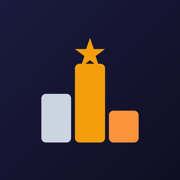
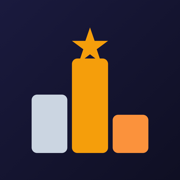
1.9.86 — nenhuma animação repinta mais; cartões isolados; ícone preenche o círculo
Continuação do plano de desempenho (o dono pediu pra atacar as dicas mesmo elas
estando DESLIGADAS: "quando voltarem causarao problemas").

ANIMAÇÕES — auditoria completa do CSS: nenhuma keyframe anima mais box-shadow,
filter ou background (verificado por varredura, não por amostra):
- hint-pulse (dicas), spGlowAmber/Indigo, enrollGlowPulse → viram ANEL em
  ::after animando transform+opacity (composto na GPU). Mesma leitura visual.
  O anel é pointer-events:none — não pode roubar o toque do elemento ensinado.
- invitePulse/inviteBtnPulse/enrollPulse → a sombra saiu da animação e ficou
  estática; o pulso (escala/borda) permanece. ⚠ enrollPulse roda em LOOP
  INFINITO no botão de inscrição com convite: repintava sem parar na tela mais
  aberta do app.
- as variantes por TEMA do pulso viravam três keyframes de box-shadow para o
  mesmo efeito; agora o tema muda só a cor da borda do anel. Keyframes dos temas
  MORTOS (sunset/ocean) removidas.

CARTÕES: `contain: paint` no `.card` — mexer num cartão deixa de obrigar o
navegador a reconsiderar os 4.234 elementos da tela (número medido no aparelho
do dono). ⛔ NÃO é content-visibility (proibido aqui): não esconde nada, não
muda layout, não mexe em evento.

ÍCONE: reenquadrado (icon-maskable.svg, escala 1,20) — o pódio ocupava 54% da
largura e o Android ainda recorta os cantos, daí o ícone "pequeno no círculo" do
print. ⚠ O teto é o CÍRCULO, não o quadrado: os cantos inferiores do pódio estão
[…]

Changed region(s): [[0.1667, 0.1667, 0.8333, 0.8611]]

diff --git a/index.html b/index.html
@@ -28,7 +28,7 @@
   <meta name="apple-mobile-web-app-status-bar-style" content="black-translucent">
   <meta name="apple-mobile-web-app-title" content="scoreplace">
   <link rel="manifest" href="manifest.json?v=0.17.73">
-  <link rel="icon" type="image/png" sizes="32x32" href="icons/icon-32.png?v=1.9.85"><link rel="icon" type="image/png" sizes="16x16" href="icons/icon-16.png?v=1.9.85"><link rel="icon" type="image/png" sizes="192x192" href="icons/icon-192.png?v=1.9.85"><link rel="apple-touch-icon" sizes="180x180" href="icons/icon-180.png?v=1.9.85"><link rel="mask-icon" href="icons/logo-podium.svg?v=1.9.85" color="#fbbf24">
+  <link rel="icon" type="image/png" sizes="32x32" href="icons/icon-32.png?v=1.9.86"><link rel="icon" type="image/png" sizes="16x16" href="icons/icon-16.png?v=1.9.86"><link rel="icon" type="image/png" sizes="192x192" href="icons/icon-192.png?v=1.9.86"><link rel="apple-touch-icon" sizes="180x180" href="icons/icon-180.png?v=1.9.86"><link rel="mask-icon" href="icons/logo-podium.svg?v=1.9.85" color="#fbbf24">
   
   <!-- Google Fonts para Design Moderno/Esportivo.
        ⚠ NÃO voltar a carregar isto como `rel="stylesheet"` puro: era uma folha
@@ -46,7 +46,7 @@
   <noscript><link href="https://fonts.googleapis.com/css2?family=Outfit:wght@300;400;500;600;700;800&family=Inter:wght@400;500;600&display=swap" rel="stylesheet"></noscript>
   
   <link rel="stylesheet" href="css/style.css?v=1.8.84">
-  <link rel="stylesheet" href="css/components.css?v=1.9.84">
+  <link rel="stylesheet" href="css/components.css?v=1.9.86">
   <link rel="stylesheet" href="css/layout.css?v=1.8.25-beta1">
   <link rel="stylesheet" href="css/bracket.css?v=1.7.88">
   <link rel="stylesheet" href="css/responsive.css?v=1.9.69">
@@ -490,7 +490,7 @@
 
       <div class="view-container" id="view-container" role="region" aria-label="Conteúdo principal" tabindex="-1">
         <!-- prerender:start -->
-<div class="landing-page"><style>.landing-page { max-width: 900px; margin: 0 auto; padding: 0 16px; }.landing-hero { text-align: center; padding: 48px 0 32px; }.landing-logo { margin-bottom: 8px; line-height: 0; }.landing-title { font-size: 2.2rem; font-weight: 800; color: var(--text-bright); margin: 0; }.landing-dot { color: var(--primary-color); }.landing-tagline { font-size: 1.1rem; color: var(--text-muted); margin: 12px 0 28px; max-width: 500px; margin-left: auto; margin-right: auto; }.landing-cta-btn { display: block; width: 95%; max-width: 760px; margin-left: auto; margin-right: auto; box-sizing: border-box; font-size: clamp(1.05rem, 1.4vw + 0.85rem, 1.55rem); font-weight: 800; padding: clamp(14px, 2vh + 6px, 26px) clamp(16px, 4vw, 48px); border-radius: 14px; cursor: pointer; background: linear-gradient(180deg, #059669 0%, #047857 55%, #036048 100%); letter-spacing: 0.3px; box-shadow: inset 0 3px 0 rgba(255,255,255,0.6), inset 0 13px 17px rgba(255,255,255,0.36), inset 0 -26px 30px rgba(0,0,0,0.38), inset 0 -5px 0 rgba(0,0,0,0.30), 0 12px 30px rgba(5,150,105,0.5), 0 6px 12px rgba(0,0,0,0.32); }.landing-cta-btn:active { transform: translateY(3px); box-shadow: inset 0 3px 0 rgba(255,255,255,0.45), inset 0 9px 13px rgba(255,255,255,0.26), inset 0 -16px 20px rgba(0,0,0,0.32), inset 0 -3px 0 rgba(0,0,0,0.26), 0 5px 14px rgba(5,150,105,0.4), 0 2px 5px rgba(0,0,0,0.24); }.landing-cta-btn:hover { background: #065f46; }.landing-cta-hero { display: flex; flex-direction: column; align-items: center; justify-content: center; gap: clamp(2px, 0.4vh, 8px); padding: clamp(26px, 5vh + 10px, 60px) clamp(26px, 6vw, 56px); line-height: 1.05; }.landing-cta-hero .landing-cta-l1 { font-size: clamp(2rem, 4.4vw + 1.2rem, 3.8rem); font-weight: 900; text-transform: uppercase; letter-spacing: 0.5px; max-width: 100%; }.landing-cta-hero .landing-cta-l2 { font-size: clamp(1.45rem, 3.1vw + 0.85rem, 2.9rem); font-weight: 800; letter-spacing: 0.2px; max-width: 100%; overflow-wrap: anywhere; word-break: break-word; }.landing-sports-row { display: flex; flex-wrap: wrap; justify-content: center; gap: 8px; margin-top: clamp(40px, 7vh, 72px); }.landing-sport-pill { background: var(--bg-card); border: 1px solid var(--border-color); border-radius: 20px; padding: 6px 14px; font-size: 0.82rem; color: var(--text-main); cursor: default; }.landing-features { padding: 24px 0; }.landing-grid { display: grid; grid-template-columns: repeat(auto-fit, minmax(250px, 1fr)); gap: 16px; }.landing-feat-card { background: var(--bg-card); border: 1px solid var(--border-color); border-radius: 14px; padding: 24px 20px; text-align: center; transition: transform 0.2s, box-shadow 0.2s; }.landing-feat-card:hover { transform: translateY(-2px); box-shadow: 0 6px 20px rgba(0,0,0,0.15); }.landing-feat-icon { font-size: 2rem; margin-bottom: 10px; }.landing-feat-card h3 { font-size: 1rem; font-weight: 700; color: var(--text-bright); margin: 0 0 8px; }.landing-feat-card p { font-size: 0.88rem; color: var(--text-muted); margin: 0; line-height: 1.5; }.landing-how { padding: 32px 0; text-align: center; }.landing-how h2 { font-size: 1.4rem; font-weight: 700; color: var(--text-bright); margin: 0 0 24px; }.landing-steps { display: flex; align-items: flex-start; justify-content: center; gap: 12px; flex-wrap: wrap; }.landing-step { flex: 1; min-width: 180px; max-width: 240px; text-align: center; }.landing-step-num { font-size: 2rem; margin-bottom: 8px; }.landing-step h3 { font-size: 0.95rem; font-weight: 700; color: var(--text-bright); margin: 0 0 6px; }.landing-step p { font-size: 0.85rem; color: var(--text-muted); margin: 0; line-height: 1.5; }.landing-step-arrow { font-size: 1.5rem; color: var(--text-muted); padding-top: 16px; }.landing-stats { display: flex; justify-content: center; gap: 40px; padding: 32px 0; flex-wrap: wrap; }.landing-stat { text-align: center; }.landing-stat-value { font-size: 2rem; font-weight: 800; color: var(--primary-color); }.landing-stat-label { font-size: 0.85rem; color: var(--text-muted); margin-top: 4px; }.landing-tutorials { padding: 40px 0; text-align: center; }.landing-tutorials h2 { font-size: 1.4rem; font-weight: 700; color: var(--text-bright); margin: 0 0 8px; }.landing-tutorials-sub { font-size: 0.9rem; color: var(--text-muted); margin: 0 0 24px; }.landing-vids-grid { display: grid; grid-template-columns: repeat(3, 1fr); gap: 14px; }.landing-vid-card { position: relative; border-radius: 12px; overflow: hidden; background: var(--bg-card); border: 1px solid var(--border-color); cursor: pointer; }.landing-vid-card:hover .landing-vid-play { opacity: 1; transform: translate(-50%,-50%) scale(1.1); }.landing-vid-wrap { position: relative; padding-top: 177.78%; /* 9:16 */ background: #000; }.landing-vid-wrap img { position: absolute; top: 0; left: 0; width: 100%; height: 100%; object-fit: cover; }.landing-vid-wrap iframe { position: absolute; top: 0; left: 0; width: 100%; height: 100%; border: 0; }.landing-vid-play { position: absolute; top: 50%; left: 50%; transform: translate(-50%,-50%); width: 52px; height: 52px; background: rgba(0,0,0,0.72); border-radius: 50%; display: flex; align-items: center; justify-content: center; font-size: 1.3rem; color: #fff; pointer-events: none; opacity: 0.85; transition: opacity 0.2s, transform 0.2s; padding-left: 4px; }.landing-cta-section { text-align: center; padding: 24px 0 40px; }.landing-footer { text-align: center; padding: 24px 0; border-top: 1px solid var(--border-color); font-size: 0.8rem; color: var(--text-muted); }.landing-footer a { color: var(--primary-color); text-decoration: none; }.landing-legal { display: flex; flex-direction: column; gap: 2px; margin-top: 14px; font-size: 0.75rem; font-style: normal; line-height: 1.5; opacity: 0.85; }@media (max-width: 767px) {.landing-title { font-size: 1.6rem; }.landing-tagline { font-size: 0.95rem; }.landing-step-arrow { display: none; }.landing-steps { flex-direction: column; align-items: center; }.landing-stats { gap: 24px; }.landing-vids-grid { grid-template-columns: repeat(2, 1fr); gap: 10px; }}</style><section class="landing-hero"><div class="landing-hero-content"><div class="landing-logo"><img src="icons/logo-podium.svg?v=0.15.95" alt="scoreplace" width="96" height="72" style="display:inline-block;filter:drop-shadow(0 4px 12px rgba(245,158,11,0.3));"></div><h1 class="landing-title">scoreplace<span class="landing-dot">.app</span></h1><div class="landing-version" style="font-size:0.78rem;color:var(--text-muted,#9ca3af);margin-top:-4px;margin-bottom:14px;letter-spacing:0.3px;">v1.9.85</div><p class="landing-tagline">Jogue em outro nível — torneios, partidas casuais, presença e locais esportivos.</p><button class="btn btn-cta btn-success landing-cta-btn landing-cta-hero" data-landing-cta="" onclick="if(window._spEnterClick)window._spEnterClick(this);else if(window._enterApp)window._enterApp(this);else if(window.openModal)window.openModal('modal-login');"><span class="landing-cta-l1">Entrar</span><span class="landing-cta-l2">no scoreplace.app</span></button><div class="landing-sports-row"><span class="landing-sport-pill"><svg viewBox="0 0 100 100" style="width:1em;height:1em;vertical-align:-0.15em;display:inline-block;flex-shrink:0" aria-label="Beach Tennis"><circle cx="50" cy="50" r="47" fill="#fb923c" stroke="#c2410c" stroke-width="3"></circle><path d="M18 20 C44 40 44 60 18 80" fill="none" stroke="#fff7ed" stroke-width="5" stroke-linecap="round"></path><path d="M82 20 C56 40 56 60 82 80" fill="none" stroke="#fff7ed" stroke-width="5" stroke-linecap="round"></path></svg> Beach Tennis</span><span class="landing-sport-pill">🟡 Pickleball</span><span class="landing-sport-pill">🎾 Tenis</span><span class="landing-sport-pill">🏓 Tenis de Mesa</span><span class="landing-sport-pill">🥎 Padel</span><span class="landing-sport-pill">🏐 Vôlei de Praia</span><span class="landing-sport-pill">⚽ Futevôlei</span></div></div></section><section class="landing-features"><h2 class="sr-only">Recursos da plataforma</h2><div class="landing-grid"><div class="landing-feat-card"><div class="landing-feat-icon">🎯</div><h3>Chaveamento Automático</h3><p>Sorteio inteligente com suporte a BYEs, cabeças de chave e categorias.</p></div><div class="landing-feat-card"><div class="landing-feat-icon">📋</div><h3>4 Formatos de Torneio</h3><p>Eliminatórias, Dupla Eliminatória, Fase de Grupos e Pontos Corridos.</p></div><div class="landing-feat-card"><div class="landing-feat-icon">🔗</div><h3>Inscrições Online</h3><p>Link de convite com inscrição automática após login.</p></div><div class="landing-feat-card"><div class="landing-feat-icon">⚡</div><h3>Partida Casual</h3><p>Placar ao vivo em tela cheia pra partidas avulsas. Convide amigos via QR Code e jogue.</p></div><div class="landing-feat-card"><div class="landing-feat-icon">📍</div><h3>Presença no Local</h3><p>Marque "Estou aqui agora" e amigos veem. Veja quem tá jogando nos seus clubes.</p></div><div class="landing-feat-card"><div class="landing-feat-icon">🏢</div><h3>Descobrir Locais</h3><p>Mapa com clubes e arenas abertos ao público. Filtros por modalidade, distância e preço.</p></div></div></section><section class="landing-tutorials"><h2>Veja em ação</h2><p class="landing-tutorials-sub">Tutoriais rápidos de cada funcionalidade</p><div class="landing-vids-grid"><div class="landing-vid-card" onclick="var w=this.querySelector('.landing-vid-wrap');w.innerHTML='&lt;iframe src=\'https://www.youtube.com/embed/ffMcLFj5yIs?autoplay=1&amp;rel=0&amp;modestbranding=1&amp;playsinline=1\' frameborder=\'0\' allow=\'accelerometer;autoplay;clipboard-write;encrypted-media;gyroscope;picture-in-picture\' allowfullscreen&gt;&lt;/iframe&gt;';this.querySelector('.landing-vid-play').style.display='none'"><div class="landing-vid-wrap"><img src="https://img.youtube.com/vi/ffMcLFj5yIs/maxresdefault.jpg" onerror="this.src='https://img.youtube.com/vi/ffMcLFj5yIs/hqdefault.jpg'" alt="Tutorial scoreplace.app" loading="lazy"></div><div class="landing-vid-play" aria-label="Reproduzir vídeo">▶</div></div><div class="landing-vid-card" onclick="var w=this.querySelector('.landing-vid-wrap');w.innerHTML='&lt;iframe src=\'https://www.youtube.com/embed/K5KncI40tIE?autoplay=1&amp;rel=0&amp;modestbranding=1&amp;playsinline=1\' frameborder=\'0\' allow=\'accelerometer;autoplay;clipboard-write;encrypted-media;gyroscope;picture-in-picture\' allowfullscreen&gt;&lt;/iframe&gt;';this.querySelector('.landing-vid-play').style.display='none'"><div class="landing-vid-wrap"><img src="https://img.youtube.com/vi/K5KncI40tIE/maxresdefault.jpg" onerror="this.src='https://img.youtube.com/vi/K5KncI40tIE/hqdefault.jpg'" alt="Tutorial scoreplace.app" loading="lazy"></div><div class="landing-vid-play" aria-label="Reproduzir vídeo">▶</div></div><div class="landing-vid-card" onclick="var w=this.querySelector('.landing-vid-wrap');w.innerHTML='&lt;iframe src=\'https://www.youtube.com/embed/q_ZEMJ_bs-Y?autoplay=1&amp;rel=0&amp;modestbranding=1&amp;playsinline=1\' frameborder=\'0\' allow=\'accelerometer;autoplay;clipboard-write;encrypted-media;gyroscope;picture-in-picture\' allowfullscreen&gt;&lt;/iframe&gt;';this.querySelector('.landing-vid-play').style.display='none'"><div class="landing-vid-wrap"><img src="https://img.youtube.com/vi/q_ZEMJ_bs-Y/maxresdefault.jpg" onerror="this.src='https://img.youtube.com/vi/q_ZEMJ_bs-Y/hqdefault.jpg'" alt="Tutorial scoreplace.app" loading="lazy"></div><div class="landing-vid-play" aria-label="Reproduzir vídeo">▶</div></div><div class="landing-vid-card" onclick="var w=this.querySelector('.landing-vid-wrap');w.innerHTML='&lt;iframe src=\'https://www.youtube.com/embed/wKy5x0D9E-E?autoplay=1&amp;rel=0&amp;modestbranding=1&amp;playsinline=1\' frameborder=\'0\' allow=\'accelerometer;autoplay;clipboard-write;encrypted-media;gyroscope;picture-in-picture\' allowfullscreen&gt;&lt;/iframe&gt;';this.querySelector('.landing-vid-play').style.display='none'"><div class="landing-vid-wrap"><img src="https://img.youtube.com/vi/wKy5x0D9E-E/maxresdefault.jpg" onerror="this.src='https://img.youtube.com/vi/wKy5x0D9E-E/hqdefault.jpg'" alt="Tutorial scoreplace.app" loading="lazy"></div><div class="landing-vid-play" aria-label="Reproduzir vídeo">▶</div></div><div class="landing-vid-card" onclick="var w=this.querySelector('.landing-vid-wrap');w.innerHTML='&lt;iframe src=\'https://www.youtube.com/embed/XpI7fcdFDn0?autoplay=1&amp;rel=0&amp;modestbranding=1&amp;playsinline=1\' frameborder=\'0\' allow=\'accelerometer;autoplay;clipboard-write;encrypted-media;gyroscope;picture-in-picture\' allowfullscreen&gt;&lt;/iframe&gt;';this.querySelector('.landing-vid-play').style.display='none'"><div class="landing-vid-wrap"><img src="https://img.youtube.com/vi/XpI7fcdFDn0/maxresdefault.jpg" onerror="this.src='https://img.youtube.com/vi/XpI7fcdFDn0/hqdefault.jpg'" alt="Tutorial scoreplace.app" loading="lazy"></div><div class="landing-vid-play" aria-label="Reproduzir vídeo">▶</div></div><div class="landing-vid-card" onclick="var w=this.querySelector('.landing-vid-wrap');w.innerHTML='&lt;iframe src=\'https://www.youtube.com/embed/jiKAdBkMso8?autoplay=1&amp;rel=0&amp;modestbranding=1&amp;playsinline=1\' frameborder=\'0\' allow=\'accelerometer;autoplay;clipboard-write;encrypted-media;gyroscope;picture-in-picture\' allowfullscreen&gt;&lt;/iframe&gt;';this.querySelector('.landing-vid-play').style.display='none'"><div class="landing-vid-wrap"><img src="https://img.youtube.com/vi/jiKAdBkMso8/maxresdefault.jpg" onerror="this.src='https://img.youtube.com/vi/jiKAdBkMso8/hqdefault.jpg'" alt="Tutorial scoreplace.app" loading="lazy"></div><div class="landing-vid-play" aria-label="Reproduzir vídeo">▶</div></div></div></section><section class="landing-how"><h2>Como funciona</h2><div class="landing-steps"><div class="landing-step"><div class="landing-step-num">🏗</div><h3>Crie um torneio</h3><p>Escolha o esporte, formato e configure as regras em segundos.</p></div><div class="landing-step-arrow">→</div><div class="landing-step"><div class="landing-step-num">📨</div><h3>Convide participantes</h3><p>Compartilhe o link ou QR Code. Inscrição com um clique.</p></div><div class="landing-step-arrow">→</div><div class="landing-step"><div class="landing-step-num">🏅</div><h3>Gerencie resultados</h3><p>Chaveamento automático, placar ao vivo e classificação em tempo real.</p></div></div></section><section class="landing-cta-section"><button class="btn btn-cta btn-success landing-cta-btn" data-landing-cta="" onclick="if(window._spEnterClick)window._spEnterClick(this);else if(window._enterApp)window._enterApp(this);else if(window.openModal)window.openModal('modal-login');">Comece agora — é grátis!</button></section><footer class="landing-footer"><p>scoreplace.app v1.9.85</p><p><a href="mailto:contato@barthlabs.com">contato@barthlabs.com</a></p><p style="margin-top:12px;font-size:0.75rem;"><a href="#privacy">Política de Privacidade</a> · <a href="#terms">Termos de Uso</a></p><address class="landing-legal"><span>Terra Barth Serviços Administrativos Ltda</span><span>CNPJ 51.590.996/0001-73</span><span>Rua Ministro Alfredo Nasser, 68 — São Paulo, SP, 05516-090, Brasil</span><a href="tel:+5511987726873">+55 11 98772-6873</a></address></footer></div>
+<div class="landing-page"><style>.landing-page { max-width: 900px; margin: 0 auto; padding: 0 16px; }.landing-hero { text-align: center; padding: 48px 0 32px; }.landing-logo { margin-bottom: 8px; line-height: 0; }.landing-title { font-size: 2.2rem; font-weight: 800; color: var(--text-bright); margin: 0; }.landing-dot { color: var(--primary-color); }.landing-tagline { font-size: 1.1rem; color: var(--text-muted); margin: 12px 0 28px; max-width: 500px; margin-left: auto; margin-right: auto; }.landing-cta-btn { display: block; width: 95%; max-width: 760px; margin-left: auto; margin-right: auto; box-sizing: border-box; font-size: clamp(1.05rem, 1.4vw + 0.85rem, 1.55rem); font-weight: 800; padding: clamp(14px, 2vh + 6px, 26px) clamp(16px, 4vw, 48px); border-radius: 14px; cursor: pointer; background: linear-gradient(180deg, #059669 0%, #047857 55%, #036048 100%); letter-spacing: 0.3px; box-shadow: inset 0 3px 0 rgba(255,255,255,0.6), inset 0 13px 17px rgba(255,255,255,0.36), inset 0 -26px 30px rgba(0,0,0,0.38), inset 0 -5px 0 rgba(0,0,0,0.30), 0 12px 30px rgba(5,150,105,0.5), 0 6px 12px rgba(0,0,0,0.32); }.landing-cta-btn:active { transform: translateY(3px); box-shadow: inset 0 3px 0 rgba(255,255,255,0.45), inset 0 9px 13px rgba(255,255,255,0.26), inset 0 -16px 20px rgba(0,0,0,0.32), inset 0 -3px 0 rgba(0,0,0,0.26), 0 5px 14px rgba(5,150,105,0.4), 0 2px 5px rgba(0,0,0,0.24); }.landing-cta-btn:hover { background: #065f46; }.landing-cta-hero { display: flex; flex-direction: column; align-items: center; justify-content: center; gap: clamp(2px, 0.4vh, 8px); padding: clamp(26px, 5vh + 10px, 60px) clamp(26px, 6vw, 56px); line-height: 1.05; }.landing-cta-hero .landing-cta-l1 { font-size: clamp(2rem, 4.4vw + 1.2rem, 3.8rem); font-weight: 900; text-transform: uppercase; letter-spacing: 0.5px; max-width: 100%; }.landing-cta-hero .landing-cta-l2 { font-size: clamp(1.45rem, 3.1vw + 0.85rem, 2.9rem); font-weight: 800; letter-spacing: 0.2px; max-width: 100%; overflow-wrap: anywhere; word-break: break-word; }.landing-sports-row { display: flex; flex-wrap: wrap; justify-content: center; gap: 8px; margin-top: clamp(40px, 7vh, 72px); }.landing-sport-pill { background: var(--bg-card); border: 1px solid var(--border-color); border-radius: 20px; padding: 6px 14px; font-size: 0.82rem; color: var(--text-main); cursor: default; }.landing-features { padding: 24px 0; }.landing-grid { display: grid; grid-template-columns: repeat(auto-fit, minmax(250px, 1fr)); gap: 16px; }.landing-feat-card { background: var(--bg-card); border: 1px solid var(--border-color); border-radius: 14px; padding: 24px 20px; text-align: center; transition: transform 0.2s, box-shadow 0.2s; }.landing-feat-card:hover { transform: translateY(-2px); box-shadow: 0 6px 20px rgba(0,0,0,0.15); }.landing-feat-icon { font-size: 2rem; margin-bottom: 10px; }.landing-feat-card h3 { font-size: 1rem; font-weight: 700; color: var(--text-bright); margin: 0 0 8px; }.landing-feat-card p { font-size: 0.88rem; color: var(--text-muted); margin: 0; line-height: 1.5; }.landing-how { padding: 32px 0; text-align: center; }.landing-how h2 { font-size: 1.4rem; font-weight: 700; color: var(--text-bright); margin: 0 0 24px; }.landing-steps { display: flex; align-items: flex-start; justify-content: center; gap: 12px; flex-wrap: wrap; }.landing-step { flex: 1; min-width: 180px; max-width: 240px; text-align: center; }.landing-step-num { font-size: 2rem; margin-bottom: 8px; }.landing-step h3 { font-size: 0.95rem; font-weight: 700; color: var(--text-bright); margin: 0 0 6px; }.landing-step p { font-size: 0.85rem; color: var(--text-muted); margin: 0; line-height: 1.5; }.landing-step-arrow { font-size: 1.5rem; color: var(--text-muted); padding-top: 16px; }.landing-stats { display: flex; justify-content: center; gap: 40px; padding: 32px 0; flex-wrap: wrap; }.landing-stat { text-align: center; }.landing-stat-value { font-size: 2rem; font-weight: 800; color: var(--primary-color); }.landing-stat-label { font-size: 0.85rem; color: var(--text-muted); margin-top: 4px; }.landing-tutorials { padding: 40px 0; text-align: center; }.landing-tutorials h2 { font-size: 1.4rem; font-weight: 700; color: var(--text-bright); margin: 0 0 8px; }.landing-tutorials-sub { font-size: 0.9rem; color: var(--text-muted); margin: 0 0 24px; }.landing-vids-grid { display: grid; grid-template-columns: repeat(3, 1fr); gap: 14px; }.landing-vid-card { position: relative; border-radius: 12px; overflow: hidden; background: var(--bg-card); border: 1px solid var(--border-color); cursor: pointer; }.landing-vid-card:hover .landing-vid-play { opacity: 1; transform: translate(-50%,-50%) scale(1.1); }.landing-vid-wrap { position: relative; padding-top: 177.78%; /* 9:16 */ background: #000; }.landing-vid-wrap img { position: absolute; top: 0; left: 0; width: 100%; height: 100%; object-fit: cover; }.landing-vid-wrap iframe { position: absolute; top: 0; left: 0; width: 100%; height: 100%; border: 0; }.landing-vid-play { position: absolute; top: 50%; left: 50%; transform: translate(-50%,-50%); width: 52px; height: 52px; background: rgba(0,0,0,0.72); border-radius: 50%; display: flex; align-items: center; justify-content: center; font-size: 1.3rem; color: #fff; pointer-events: none; opacity: 0.85; transition: opacity 0.2s, transform 0.2s; padding-left: 4px; }.landing-cta-section { text-align: center; padding: 24px 0 40px; }.landing-footer { text-align: center; padding: 24px 0; border-top: 1px solid var(--border-color); font-size: 0.8rem; color: var(--text-muted); }.landing-footer a { color: var(--primary-color); text-decoration: none; }.landing-legal { display: flex; flex-direction: column; gap: 2px; margin-top: 14px; font-size: 0.75rem; font-style: normal; line-height: 1.5; opacity: 0.85; }@media (max-width: 767px) {.landing-title { font-size: 1.6rem; }.landing-tagline { font-size: 0.95rem; }.landing-step-arrow { display: none; }.landing-steps { flex-direction: column; align-items: center; }.landing-stats { gap: 24px; }.landing-vids-grid { grid-template-columns: repeat(2, 1fr); gap: 10px; }}</style><section class="landing-hero"><div class="landing-hero-content"><div class="landing-logo"><img src="icons/logo-podium.svg?v=0.15.95" alt="scoreplace" width="96" height="72" style="display:inline-block;filter:drop-shadow(0 4px 12px rgba(245,158,11,0.3));"></div><h1 class="landing-title">scoreplace<span class="landing-dot">.app</span></h1><div class="landing-version" style="font-size:0.78rem;color:var(--text-muted,#9ca3af);margin-top:-4px;margin-bottom:14px;letter-spacing:0.3px;">v1.9.86</div><p class="landing-tagline">Jogue em outro nível — torneios, partidas casuais, presença e locais esportivos.</p><button class="btn btn-cta btn-success landing-cta-btn landing-cta-hero" data-landing-cta="" onclick="if(window._spEnterClick)window._spEnterClick(this);else if(window._enterApp)window._enterApp(this);else if(window.openModal)window.openModal('modal-login');"><span class="landing-cta-l1">Entrar</span><span class="landing-cta-l2">no scoreplace.app</span></button><div class="landing-sports-row"><span class="landing-sport-pill"><svg viewBox="0 0 100 100" style="width:1em;height:1em;vertical-align:-0.15em;display:inline-block;flex-shrink:0" aria-label="Beach Tennis"><circle cx="50" cy="50" r="47" fill="#fb923c" stroke="#c2410c" stroke-width="3"></circle><path d="M18 20 C44 40 44 60 18 80" fill="none" stroke="#fff7ed" stroke-width="5" stroke-linecap="round"></path><path d="M82 20 C56 40 56 60 82 80" fill="none" stroke="#fff7ed" stroke-width="5" stroke-linecap="round"></path></svg> Beach Tennis</span><span class="landing-sport-pill">🟡 Pickleball</span><span class="landing-sport-pill">🎾 Tenis</span><span class="landing-sport-pill">🏓 Tenis de Mesa</span><span class="landing-sport-pill">🥎 Padel</span><span class="landing-sport-pill">🏐 Vôlei de Praia</span><span class="landing-sport-pill">⚽ Futevôlei</span></div></div></section><section class="landing-features"><h2 class="sr-only">Recursos da plataforma</h2><div class="landing-grid"><div class="landing-feat-card"><div class="landing-feat-icon">🎯</div><h3>Chaveamento Automático</h3><p>Sorteio inteligente com suporte a BYEs, cabeças de chave e categorias.</p></div><div class="landing-feat-card"><div class="landing-feat-icon">📋</div><h3>4 Formatos de Torneio</h3><p>Eliminatórias, Dupla Eliminatória, Fase de Grupos e Pontos Corridos.</p></div><div class="landing-feat-card"><div class="landing-feat-icon">🔗</div><h3>Inscrições Online</h3><p>Link de convite com inscrição automática após login.</p></div><div class="landing-feat-card"><div class="landing-feat-icon">⚡</div><h3>Partida Casual</h3><p>Placar ao vivo em tela cheia pra partidas avulsas. Convide amigos via QR Code e jogue.</p></div><div class="landing-feat-card"><div class="landing-feat-icon">📍</div><h3>Presença no Local</h3><p>Marque "Estou aqui agora" e amigos veem. Veja quem tá jogando nos seus clubes.</p></div><div class="landing-feat-card"><div class="landing-feat-icon">🏢</div><h3>Descobrir Locais</h3><p>Mapa com clubes e arenas abertos ao público. Filtros por modalidade, distância e preço.</p></div></div></section><section class="landing-tutorials"><h2>Veja em ação</h2><p class="landing-tutorials-sub">Tutoriais rápidos de cada funcionalidade</p><div class="landing-vids-grid"><div class="landing-vid-card" onclick="var w=this.querySelector('.landing-vid-wrap');w.innerHTML='&lt;iframe src=\'https://www.youtube.com/embed/ffMcLFj5yIs?autoplay=1&amp;rel=0&amp;modestbranding=1&amp;playsinline=1\' frameborder=\'0\' allow=\'accelerometer;autoplay;clipboard-write;encrypted-media;gyroscope;picture-in-picture\' allowfullscreen&gt;&lt;/iframe&gt;';this.querySelector('.landing-vid-play').style.display='none'"><div class="landing-vid-wrap"><img src="https://img.youtube.com/vi/ffMcLFj5yIs/maxresdefault.jpg" onerror="this.src='https://img.youtube.com/vi/ffMcLFj5yIs/hqdefault.jpg'" alt="Tutorial scoreplace.app" loading="lazy"></div><div class="landing-vid-play" aria-label="Reproduzir vídeo">▶</div></div><div class="landing-vid-card" onclick="var w=this.querySelector('.landing-vid-wrap');w.innerHTML='&lt;iframe src=\'https://www.youtube.com/embed/K5KncI40tIE?autoplay=1&amp;rel=0&amp;modestbranding=1&amp;playsinline=1\' frameborder=\'0\' allow=\'accelerometer;autoplay;clipboard-write;encrypted-media;gyroscope;picture-in-picture\' allowfullscreen&gt;&lt;/iframe&gt;';this.querySelector('.landing-vid-play').style.display='none'"><div class="landing-vid-wrap"><img src="https://img.youtube.com/vi/K5KncI40tIE/maxresdefault.jpg" onerror="this.src='https://img.youtube.com/vi/K5KncI40tIE/hqdefault.jpg'" alt="Tutorial scoreplace.app" loading="lazy"></div><div class="landing-vid-play" aria-label="Reproduzir vídeo">▶</div></div><div class="landing-vid-card" onclick="var w=this.querySelector('.landing-vid-wrap');w.innerHTML='&lt;iframe src=\'https://www.youtube.com/embed/q_ZEMJ_bs-Y?autoplay=1&amp;rel=0&amp;modestbranding=1&amp;playsinline=1\' frameborder=\'0\' allow=\'accelerometer;autoplay;clipboard-write;encrypted-media;gyroscope;picture-in-picture\' allowfullscreen&gt;&lt;/iframe&gt;';this.querySelector('.landing-vid-play').style.display='none'"><div class="landing-vid-wrap"><img src="https://img.youtube.com/vi/q_ZEMJ_bs-Y/maxresdefault.jpg" onerror="this.src='https://img.youtube.com/vi/q_ZEMJ_bs-Y/hqdefault.jpg'" alt="Tutorial scoreplace.app" loading="lazy"></div><div class="landing-vid-play" aria-label="Reproduzir vídeo">▶</div></div><div class="landing-vid-card" onclick="var w=this.querySelector('.landing-vid-wrap');w.innerHTML='&lt;iframe src=\'https://www.youtube.com/embed/wKy5x0D9E-E?autoplay=1&amp;rel=0&amp;modestbranding=1&amp;playsinline=1\' frameborder=\'0\' allow=\'accelerometer;autoplay;clipboard-write;encrypted-media;gyroscope;picture-in-picture\' allowfullscreen&gt;&lt;/iframe&gt;';this.querySelector('.landing-vid-play').style.display='none'"><div class="landing-vid-wrap"><img src="https://img.youtube.com/vi/wKy5x0D9E-E/maxresdefault.jpg" onerror="this.src='https://img.youtube.com/vi/wKy5x0D9E-E/hqdefault.jpg'" alt="Tutorial scoreplace.app" loading="lazy"></div><div class="landing-vid-play" aria-label="Reproduzir vídeo">▶</div></div><div class="landing-vid-card" onclick="var w=this.querySelector('.landing-vid-wrap');w.innerHTML='&lt;iframe src=\'https://www.youtube.com/embed/XpI7fcdFDn0?autoplay=1&amp;rel=0&amp;modestbranding=1&amp;playsinline=1\' frameborder=\'0\' allow=\'accelerometer;autoplay;clipboard-write;encrypted-media;gyroscope;picture-in-picture\' allowfullscreen&gt;&lt;/iframe&gt;';this.querySelector('.landing-vid-play').style.display='none'"><div class="landing-vid-wrap"><img src="https://img.youtube.com/vi/XpI7fcdFDn0/maxresdefault.jpg" onerror="this.src='https://img.youtube.com/vi/XpI7fcdFDn0/hqdefault.jpg'" alt="Tutorial scoreplace.app" loading="lazy"></div><div class="landing-vid-play" aria-label="Reproduzir vídeo">▶</div></div><div class="landing-vid-card" onclick="var w=this.querySelector('.landing-vid-wrap');w.innerHTML='&lt;iframe src=\'https://www.youtube.com/embed/jiKAdBkMso8?autoplay=1&amp;rel=0&amp;modestbranding=1&amp;playsinline=1\' frameborder=\'0\' allow=\'accelerometer;autoplay;clipboard-write;encrypted-media;gyroscope;picture-in-picture\' allowfullscreen&gt;&lt;/iframe&gt;';this.querySelector('.landing-vid-play').style.display='none'"><div class="landing-vid-wrap"><img src="https://img.youtube.com/vi/jiKAdBkMso8/maxresdefault.jpg" onerror="this.src='https://img.youtube.com/vi/jiKAdBkMso8/hqdefault.jpg'" alt="Tutorial scoreplace.app" loading="lazy"></div><div class="landing-vid-play" aria-label="Reproduzir vídeo">▶</div></div></div></section><section class="landing-how"><h2>Como funciona</h2><div class="landing-steps"><div class="landing-step"><div class="landing-step-num">🏗</div><h3>Crie um torneio</h3><p>Escolha o esporte, formato e configure as regras em segundos.</p></div><div class="landing-step-arrow">→</div><div class="landing-step"><div class="landing-step-num">📨</div><h3>Convide participantes</h3><p>Compartilhe o link ou QR Code. Inscrição com um clique.</p></div><div class="landing-step-arrow">→</div><div class="landing-step"><div class="landing-step-num">🏅</div><h3>Gerencie resultados</h3><p>Chaveamento automático, placar ao vivo e classificação em tempo real.</p></div></div></section><section class="landing-cta-section"><button class="btn btn-cta btn-success landing-cta-btn" data-landing-cta="" onclick="if(window._spEnterClick)window._spEnterClick(this);else if(window._enterApp)window._enterApp(this);else if(window.openModal)window.openModal('modal-login');">Comece agora — é grátis!</button></section><footer class="landing-footer"><p>scoreplace.app v1.9.86</p><p><a href="mailto:contato@barthlabs.com">contato@barthlabs.com</a></p><p style="margin-top:12px;font-size:0.75rem;"><a href="#privacy">Política de Privacidade</a> · <a href="#terms">Termos de Uso</a></p><address class="landing-legal"><span>Terra Barth Serviços Administrativos Ltda</span><span>CNPJ 51.590.996/0001-73</span><span>Rua Ministro Alfredo Nasser, 68 — São Paulo, SP, 05516-090, Brasil</span><a href="tel:+5511987726873">+55 11 98772-6873</a></address></footer></div>
         <!-- prerender:end -->
       </div>
     </main>
@@ -541,7 +541,7 @@
   <!-- proporção de gênero do sorteio equilibrado (50/50 · 25/75 · 75/25) — PURO e
        vendorável: o mesmo módulo decide o sorteio inicial e a formação por lista de espera -->
   <script src="js/views/gender-ratio-core.js?v=1.8.45" defer></script>
-  <script src="js/store.js?v=1.9.85-x2.07" defer></script>
+  <script src="js/store.js?v=1.9.86-x2.07" defer></script>
   <!-- Fonte única das regras das modalidades (antes de create-tournament.js e bracket-ui.js, que derivam dela) -->
   <script src="js/views/sport-rules.js?v=4.0.50-beta" defer></script>
   <script src="js/firebase-db.js?v=1.9.73" defer></script>

diff --git a/css/components.css b/css/components.css
@@ -51,28 +51,48 @@ input[type="date"] { min-width: 8.5rem !important; }   /* "dd/mm/aaaa" + ícone 
 
 /* v2.1.64: brilho pulsante nos boxes do Modo de Inscrição quando o sorteio é
    barrado por falta de times montados — chama a atenção pra a regra. */
-@keyframes enrollGlowPulse {
-  0%, 100% { box-shadow: 0 0 0 0 rgba(167,139,250,0); border-color: rgba(167,139,250,0.45); }
-  50% { box-shadow: 0 0 16px 3px rgba(167,139,250,0.65); border-color: #a78bfa; }
+/* 1.9.86: anel composto no lugar da sombra animada (mesma troca do hint-glow).
+   São só 4 ciclos, mas eles caem justo quando a pessoa está lendo a regra. */
+@keyframes enrollGlowRing {
+  0%, 100% { transform: scale(1);    opacity: 0; }
+  50%      { transform: scale(1.04); opacity: 1; }
 }
 .enroll-glow {
-  animation: enrollGlowPulse 1.2s ease-in-out 4;
   border-color: #a78bfa !important;
+  position: relative;
+}
+.enroll-glow::after {
+  content: '';
+  position: absolute;
+  inset: -2px;
+  border-radius: inherit;
+  border: 2px solid #a78bfa;
+  pointer-events: none;
+  animation: enrollGlowRing 1.2s ease-in-out 4;
+  will-change: transform, opacity;
 }
 
 /* Brilho de atenção em botões de ação do organizador (loop contínuo). */
-@keyframes spGlowAmber {
-  0%, 100% { box-shadow: 0 0 0 0 rgba(251,191,36,0); }
-  50% { box-shadow: 0 0 16px 3px rgba(251,191,36,0.7); }
+/* 1.9.86 — idem `hint-glow`: sombra animada (repaint por quadro) vira anel
+   composto (transform+opacity). O brilho continua; o custo, não. */
+@keyframes spGlowRing {
+  0%, 100% { transform: scale(1);    opacity: 0; }
+  50%      { transform: scale(1.05); opacity: 1; }
 }
-@keyframes spGlowIndigo {
-  0%, 100% { box-shadow: 0 0 0 0 rgba(129,140,248,0); }
-  50% { box-shadow: 0 0 16px 3px rgba(129,140,248,0.7); }
+.sp-glow-amber, .sp-glow-indigo { position: relative; }
+.sp-glow-amber::after, .sp-glow-indigo::after {
+  content: '';
+  position: absolute;
+  inset: -2px;
+  border-radius: inherit;
+  pointer-events: none;
+  animation: spGlowRing 1.6s ease-in-out infinite;
+  will-change: transform, opacity;
 }
-.sp-glow-amber { animation: spGlowAmber 1.6s ease-in-out infinite; }
-.sp-glow-indigo { animation: spGlowIndigo 1.6s ease-in-out infinite; }
+.sp-glow-amber::after  { border: 2px solid rgba(251,191,36,0.75); }
+.sp-glow-indigo::after { border: 2px solid rgba(129,140,248,0.75); }
 @media (prefers-reduced-motion: reduce) {
-  .sp-glow-amber, .sp-glow-indigo { animation: none; }
+  .sp-glow-amber::after, .sp-glow-indigo::after { animation: none; }
 }
 
 /* ==== FIXED BACK HEADER ==== */
@@ -1096,6 +1116,19 @@ body.sp-drag-compact .sp-dnd-host .participant-card::before {
   border-radius: var(--radius-lg);
   padding: 1.5rem;
   transition: transform var(--transition-normal), box-shadow var(--transition-normal);
+  /* ── 1.9.86 · ISOLA A PINTURA DO CARTÃO ─────────────────────────────────
+     MEDIDO no aparelho do dono: a tela tem 4.234 elementos. Sem isto, mexer em
+     UM cartão obriga o navegador a reconsiderar a página inteira — é o
+     multiplicador que tornava caro cada enfeite que consertamos nesta noite.
+     `contain: paint` promete só uma coisa: nada do cartão vaza para fora dele.
+     ⛔ NÃO CONFUNDIR com `content-visibility`, que está PROIBIDO aqui
+     ([[feedback_otimizacao_que_muda_o_que_a_tela_promete]]): aquele PULA o
+     desenho e entrega retângulo vazio ao rolar, além de comer o primeiro toque.
+     Este NÃO esconde nada, não altera layout e não mexe em evento — só delimita
+     o escopo do repaint. Zero mudança visual.
+     ⚠ Só `paint`: `contain: layout/size` mudaria a altura de cartão sem altura
+     fixa e quebraria as travas de scroll que já foram pagas. */
+  contain: paint;
 }
 
 .card:hover {
@@ -1724,17 +1757,38 @@ input[type="number"] {
 
 /* ==== HINT SYSTEM (Dicas Visuais) v2 ==== */
 
-/* --- Glow Effect on Target Element --- */
-@keyframes hint-pulse {
-  0% { box-shadow: 0 0 4px 2px rgba(251,191,36,0.3); }
-  50% { box-shadow: 0 0 16px 6px rgba(251,191,36,0.55); }
-  100% { box-shadow: 0 0 4px 2px rgba(251,191,36,0.3); }
+/* --- Realce do alvo da dica --- */
+/* ⛔ 1.9.86 — O PULSO NÃO ANIMA MAIS `box-shadow`. Ele estava DESLIGADO no app
+   (as dicas foram suspensas), mas é da MESMA classe que derrubou a rolagem no
+   iPhone do dono nesta noite: sombra animada REPINTA a região a cada quadro, e o
+   navegador não consegue jogar isso na GPU (só `transform` e `opacity` são
+   compostos). Estava esperando pra reaparecer junto com as dicas.
+   O mesmo pulso agora é um ANEL (pseudo-elemento) que cresce e some — mesma
+   leitura visual, custo de composição. `will-change` promove a camada.
+   ⚠ O anel é `pointer-events:none`: ele NÃO pode roubar o toque do elemento que
+   está sendo ensinado (seria a repetição do bug do card que não respondia). */
+@keyframes hint-pulse-ring {
+  0%   { transform: scale(1);    opacity: 0.55; }
+  50%  { transform: scale(1.06); opacity: 0.25; }
+  100% { transform: scale(1);    opacity: 0.55; }
 }
 .hint-glow {
-  animation: hint-pulse 1.6s ease-in-out infinite !important;
   border-radius: 10px;
   position: relative;
   z-index: 99999;
+}
+.hint-glow::after {
+  content: '';
+  position: absolute;
+  inset: -3px;
+  border-radius: inherit;
+  border: 2px solid rgba(251,191,36,0.9);
+  pointer-events: none;
+  animation: hint-pulse-ring 1.6s ease-in-out infinite;
+  will-change: transform, opacity;
+}
+@media (prefers-reduced-motion: reduce) {
+  .hint-glow::after { animation: none; }
 }
 
 /* --- Tooltip Balloon (uses real div arrow, not pseudo-element) --- */
@@ -1825,12 +1879,10 @@ input[type="number"] {
 .hint-balloon-disable:hover { color: #94a3b8; }
 
 /* --- Theme-Aware Glow & Balloon Colors --- */
-[data-theme="light"] .hint-glow { animation-name: hint-pulse-light !important; }
-@keyframes hint-pulse-light {
-  0% { box-shadow: 0 0 4px 2px rgba(37,99,235,0.25); }
-  50% { box-shadow: 0 0 16px 6px rgba(37,99,235,0.45); }
-  100% { box-shadow: 0 0 4px 2px rgba(37,99,235,0.25); }
-}
+/* 1.9.86 — com o pulso virando ANEL (transform+opacity), o tema muda só a COR
+   da borda; a animação é a mesma nos dois. Antes cada tema tinha a sua keyframe
+   de `box-shadow` — três animações de repintura para o mesmo efeito. */
+[data-theme="light"] .hint-glow::after { border-color: rgba(37,99,235,0.9); }
 [data-theme="light"] .hint-balloon-body {
   background: linear-gradient(135deg, #f8faff 0%, #eef2fb 100%);
   border-color: rgba(37,99,235,0.35);
@@ -1847,12 +1899,6 @@ input[type="number"] {
 [data-theme="light"] .hint-balloon-disable { color: #6c6c70; }
 [data-theme="light"] .hint-balloon-disable:hover { color: #3a3a3c; }
 
-[data-theme="sunset"] .hint-glow { animation-name: hint-pulse-sunset !important; }
-@keyframes hint-pulse-sunset {
-  0% { box-shadow: 0 0 4px 2px rgba(245,158,11,0.3); }
-  50% { box-shadow: 0 0 16px 6px rgba(245,158,11,0.5); }
-  100% { box-shadow: 0 0 4px 2px rgba(245,158,11,0.3); }
-}
 [data-theme="sunset"] .hint-balloon-body {
   background: linear-gradient(135deg, #fffdf8 0%, #f5ede0 100%);
   border-color: rgba(180,83,9,0.35);
@@ -1869,12 +1915,6 @@ input[type="number"] {
 [data-theme="sunset"] .hint-balloon-disable { color: #78716c; }
 [data-theme="sunset"] .hint-balloon-disable:hover { color: #44403c; }
 
-[data-theme="ocean"] .hint-glow { animation-name: hint-pulse-ocean !important; }
-@keyframes hint-pulse-ocean {
-  0% { box-shadow: 0 0 4px 2px rgba(34,211,238,0.3); }
-  50% { box-shadow: 0 0 16px 6px rgba(34,211,238,0.5); }
-  100% { box-shadow: 0 0 4px 2px rgba(34,211,238,0.3); }
-}
 [data-theme="ocean"] .hint-balloon-body {
   background: linear-gradient(135deg, #1c3d5e 0%, #173352 100%);
   border-color: rgba(34,211,238,0.4);
@@ -1888,17 +1928,25 @@ input[type="number"] {
 [data-theme="ocean"] .hint-balloon-got-it:hover { background: rgba(34,211,238,0.30); }
 
 /* ─── Pending invite animations ─── */
+/* 1.9.86 — a SOMBRA saiu da animação (repintava a cada quadro); o pulso agora é
+   só a cor da borda, que é barata, e a sombra fica estática no elemento. */
 @keyframes invitePulse {
-  0%, 100% { border-color: rgba(251,191,36,0.5); box-shadow: 0 0 8px rgba(251,191,36,0.2); }
-  50% { border-color: rgba(251,191,36,0.9); box-shadow: 0 0 24px rgba(251,191,36,0.4); }
+  0%, 100% { border-color: rgba(251,191,36,0.5); }
+  50% { border-color: rgba(251,191,36,0.9); }
 }
+.pending-invite-banner { box-shadow: 0 0 16px rgba(251,191,36,0.3); }
+/* 1.9.86 — só `transform` na animação (composto na GPU). A sombra que pulsava
+   junto virou estática: ninguém percebe a diferença, e o quadro deixa de repintar. */
 @keyframes inviteBtnPulse {
-  0%, 100% { transform: scale(1); box-shadow: 0 2px 8px rgba(251,191,36,0.3); }
-  50% { transform: scale(1.05); box-shadow: 0 4px 20px rgba(251,191,36,0.6); }
+  0%, 100% { transform: scale(1); }
+  50% { transform: scale(1.05); }
 }
+/* 1.9.86 — idem: a escala fica, a sombra sai da animação. ⚠ Esta roda em LOOP
+   INFINITO no botão de inscrição quando há convite (tournaments.js) — ou seja,
+   estava repintando sem parar exatamente na tela que o dono mais abre. */
 @keyframes enrollPulse {
-  0%, 100% { transform: scale(1); box-shadow: 0 2px 8px rgba(16,185,129,0.3); }
-  50% { transform: scale(1.05); box-shadow: 0 4px 20px rgba(16,185,129,0.6); }
+  0%, 100% { transform: scale(1); }
+  50% { transform: scale(1.05); }
 }
 
 /* ─── Inline button spinner (for enroll/unenroll feedback) ─────────────── */

diff --git a/js/release-notes.js b/js/release-notes.js
@@ -49,7 +49,8 @@ window._RELEASE_NOTES_HTML = (function () {
     '<div style="margin-bottom:1rem;border:2px solid #34d399;border-radius:12px;padding:14px 16px;background:rgba(52,211,153,0.08);">' +
       '<div style="font-weight:800; color:#6ee7b7; font-size:1rem; margin-bottom:8px;">\uD83C\uDFAF v1.9 \u2014 O app responde na hora, os n\u00fameros batem em todo lugar, e a tela nunca mais fica muda <span style=\"color:var(--text-muted); font-weight:400; font-size:0.78rem;\">(Agosto, 2026)</span></div>' +
       '<ul style="margin:0; padding-left:1.1rem; font-size:0.86rem; line-height:1.5; color:var(--text-main);">' +
-        '<li><b>🎽 O ícone do app voltou a aparecer no Android (era um “S” num círculo colorido):</b> o atalho na tela inicial e a lista do Chrome mostravam uma letra genérica no lugar do nosso pódio. O motivo: os ícones estavam declarados <b>só em formato vetorial</b>, que o Chrome no Android <b>não aceita</b> para atalho — sem uma imagem utilizável, ele desenha a inicial do site. Agora o app publica ícones em imagem comum (192, 512, além do favicon da aba e do ícone do iPhone), gerados do <b>mesmo ícone oficial das lojas</b>.</li>' +
+        '<li><b>🪄 Os brilhos pulsantes do app foram refeitos para não custarem nada:</b> os realces que “respiram” (dicas, destaque de convite, botão de inscrição) pulsavam mudando a <b>sombra</b> — e mudar sombra obriga o aparelho a redesenhar aquela área <b>60 vezes por segundo</b>. Era a mesma família do defeito que travou o app ontem. Agora o pulso é um <b>anel que cresce e some</b>, algo que o processador gráfico faz sozinho. O efeito é o mesmo aos olhos; o custo desapareceu. Nenhuma animação do app volta a mexer em sombra — e as telas em lista passaram a ser desenhadas de forma isolada, para que mexer num cartão não obrigue o aparelho a reavaliar a tela inteira.</li>' +
+        '<li><b>🎽 O ícone do app voltou a aparecer no Android (era um “S” num círculo colorido):</b> o atalho na tela inicial e a lista do Chrome mostravam uma letra genérica no lugar do nosso pódio. O motivo: os ícones estavam declarados <b>só em formato vetorial</b>, que o Chrome no Android <b>não aceita</b> para atalho — sem uma imagem utilizável, ele desenha a inicial do site. Agora o app publica ícones em imagem comum (192, 512, além do favicon da aba e do ícone do iPhone), gerados do <b>mesmo ícone oficial das lojas</b> — e <b>reenquadrados</b> para preencher o círculo do atalho: o pódio estava ocupando pouco mais da metade do espaço disponível.</li>' +
         '<li><b>✋ Tocar no card agora responde na hora — o card <b>esmaece</b> no dedo:</b> pedido seu, e por um motivo técnico que importa: esse esmaecimento é desenhado pelo <b>próprio navegador no instante do toque</b>, sem depender do app — então ele responde mesmo se o aparelho estiver ocupado. O contorno colorido continua, somando ao efeito.</li>' +
         '<li><b>✨ O brilho que passava pelos botões estava travando o app inteiro no iPhone:</b> aquele reflexo que desliza sobre os botões rodava <b>sem parar, em seis botões ao mesmo tempo</b>, dentro do app. O aparelho do dono nos entregou a prova: toda travada de ~1 segundo acontecia com <b>seis desses brilhos em curso</b> e <b>nenhum código do app rodando</b>. No iPhone esse efeito repinta a área a cada quadro, e com seis deles sempre havia um passando — era isso que matava a rolagem, cortava a chave e atrasava o “Carregando”. O brilho continua na tela de entrada (onde a tela é leve e ele faz sentido) e sai de dentro do app.</li>' +
         '<li><b>🧊 O efeito de vidro fosco atrás das tarjas estava matando a rolagem no iPhone:</b> as caixas que aparecem <b>sobre a foto do local</b> (progresso, tempo, estatísticas, lista de espera) usavam um <b>desfoque do fundo</b> para dar leitura. No iPhone esse efeito obriga o aparelho a <b>refazer o desfoque a cada quadro</b> e tira a rolagem do processador gráfico — resultado: rolagem que morre e engasga no começo, tela que aparece cortada e toque sem resposta. Como o app não estava executando nada nesses momentos (medimos, e não havia), o desfoque era o único suspeito que restava. Ele saiu de <b>todas as telas</b>; quem garante a leitura continua sendo a tarja escura, que não mudou de cor.</li>' +

diff --git a/sw.js b/sw.js
@@ -97,7 +97,7 @@ self.addEventListener('notificationclick', function(event) {
   );
 });
 
-var CACHE_NAME = 'scoreplace-v1.9.85';
+var CACHE_NAME = 'scoreplace-v1.9.86';
 // NOTE: js/release-notes.js NÃO entra aqui de propósito — é lazy-loaded só
 // quando o usuário abre "Notas de versões" no Help. Adicioná-lo ao precache
 // faria cache.addAll baixar 1MB durante o SW install, anulando o ganho do

diff --git a/js/store.js b/js/store.js
@@ -1,4 +1,4 @@
-window.SCOREPLACE_VERSION = '1.9.85';
+window.SCOREPLACE_VERSION = '1.9.86';
 
 // ── RASTRO DE LONG TASKS (1.9.75) — pro "toque sem feedback" ter culpado ─────
 // O relato do TestFlight ("a tela carregando demora 2-3s pra aparecer") só se
